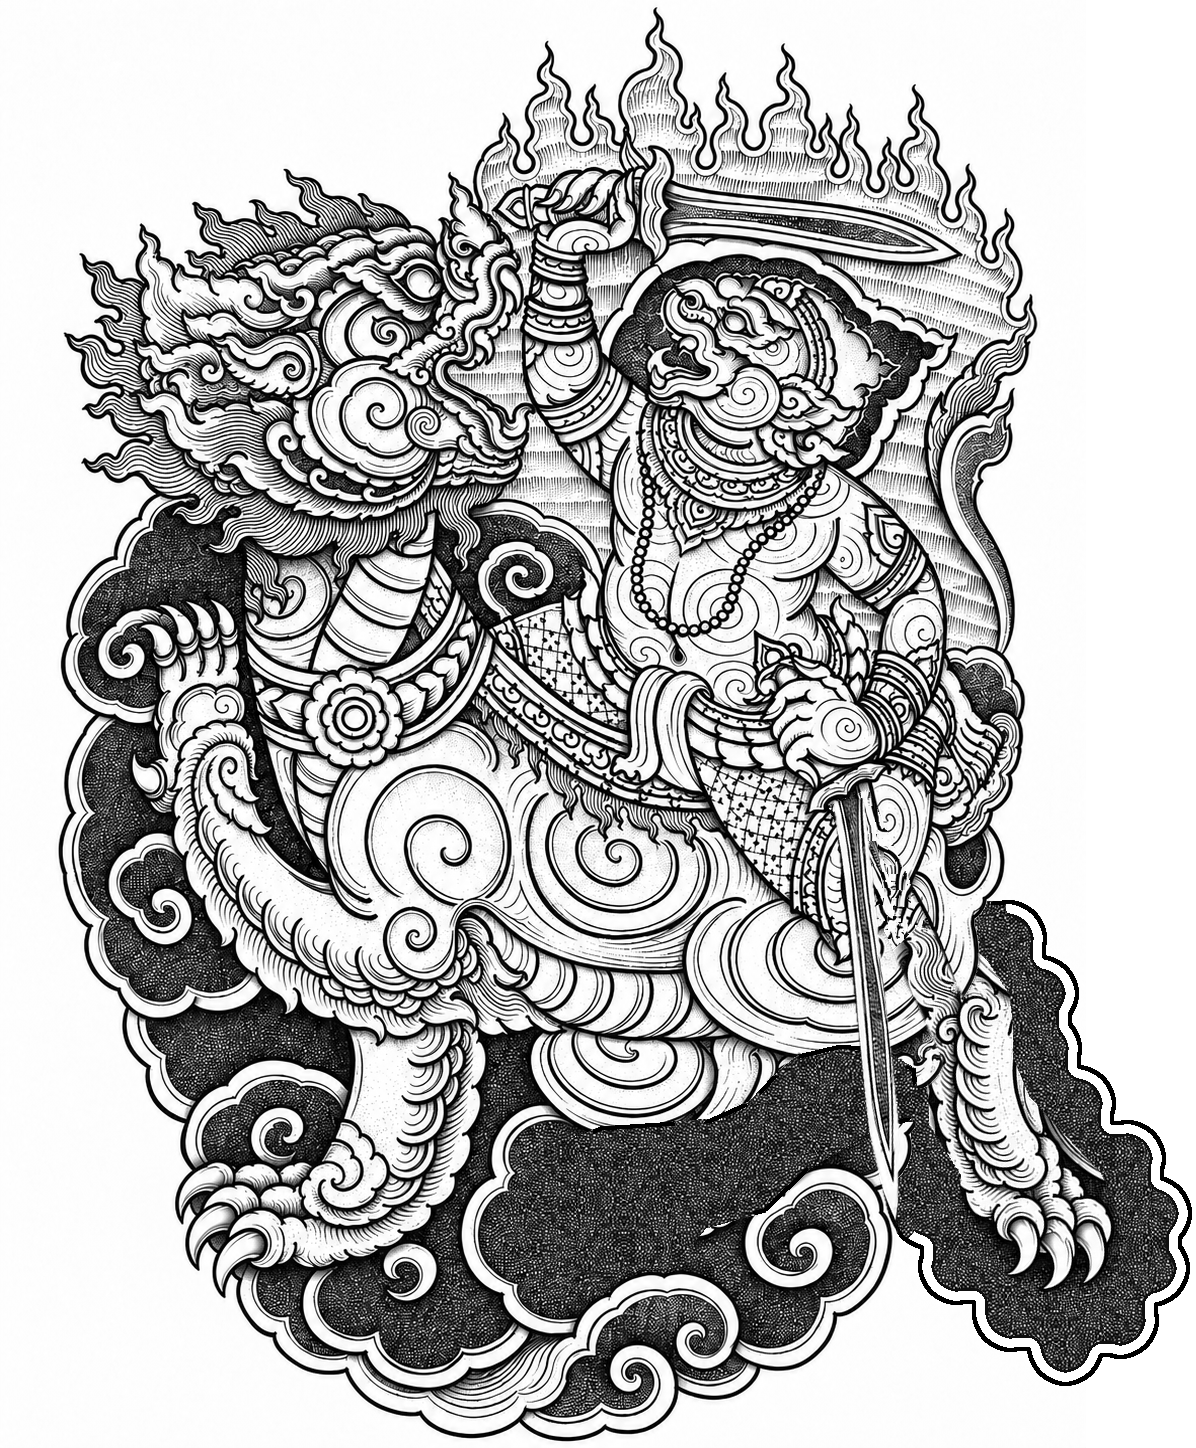
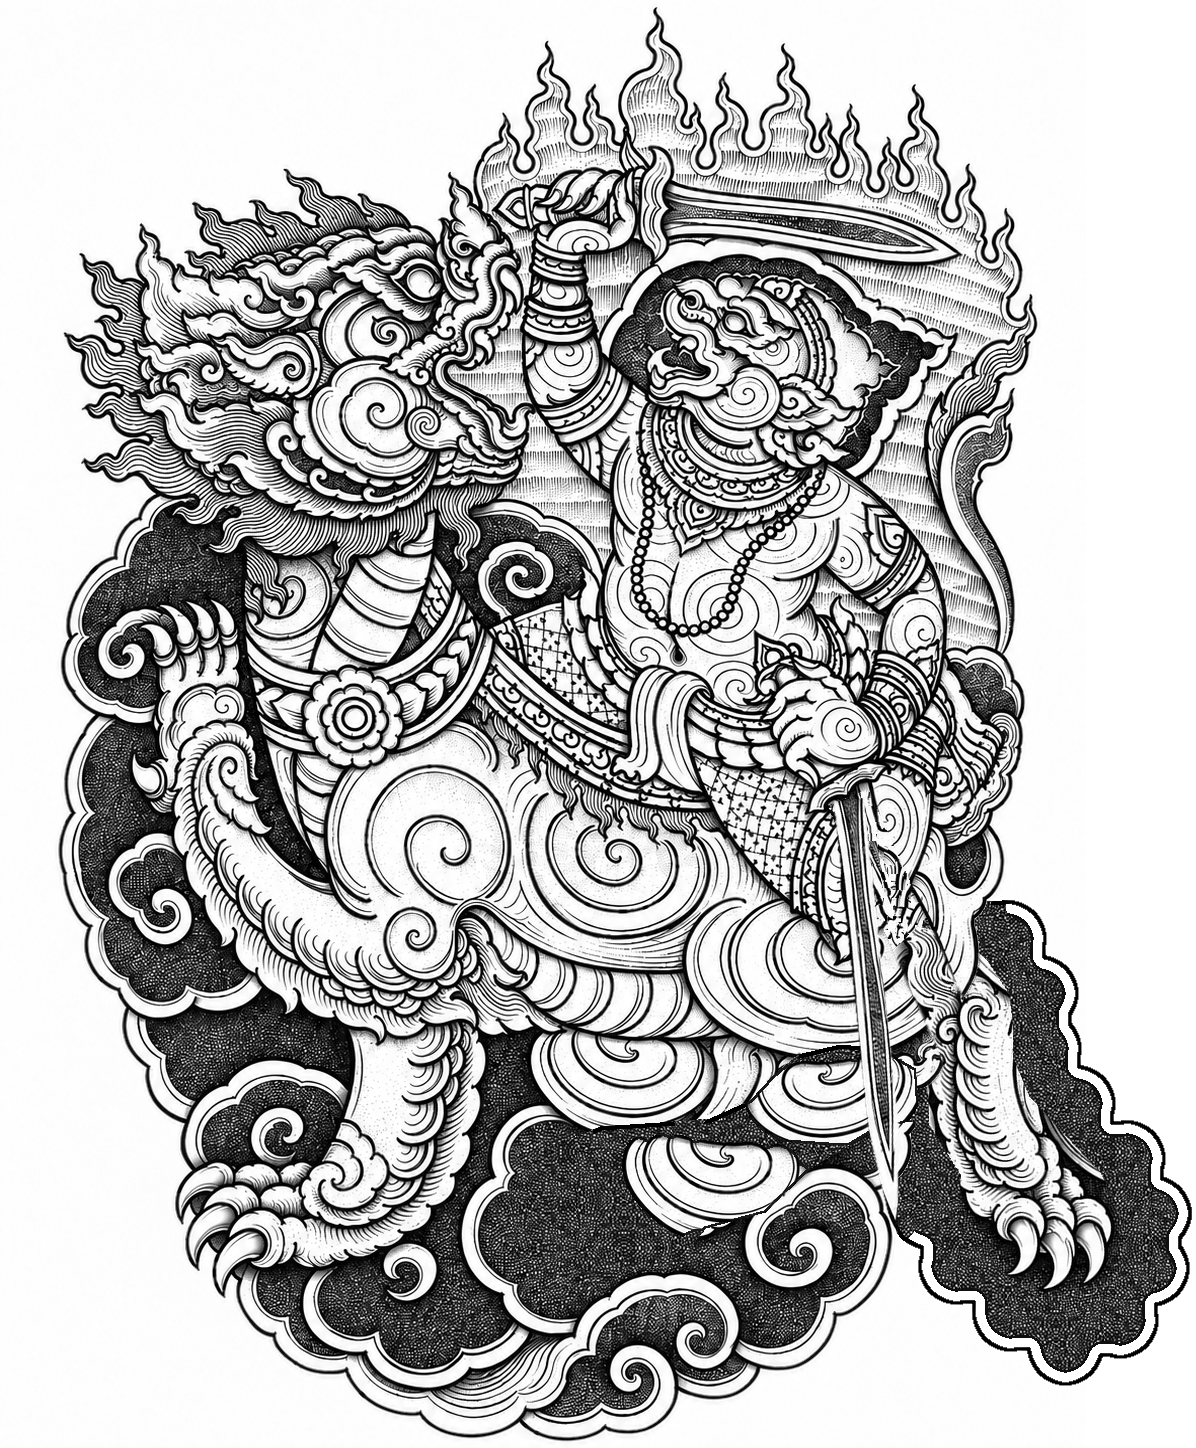
Improve tattoo mock-up: swirl clouds and lighter lines
Fill the space the old leg left under the sash with stacked swirl clouds
copied from the drawing, thin the heavy outlines on light areas, and
update the artist sheet notes and README to match.

Claude-Session: https://claude.ai/code/session_01CjPgYQGgLMmjyoYXY7oUaM

diff --git a/tattoo-review/README.md b/tattoo-review/README.md
@@ -9,11 +9,12 @@ This compares ChatGPT's flat line-art reconstruction with the five photos of the
 | [`mockup-layout.png`](mockup-layout.png) | The same mock-up without notes |
 
 ## About the mock-up
-The mock-up is a cut-and-paste edit of ChatGPT's drawing, not a new drawing. Two of the four problems are fixed in it:
+The mock-up is a cut-and-paste edit of ChatGPT's drawing, not a new drawing. Three of the four problems are fixed in it:
 - **Fixed:** the dagger is now long and nearly vertical.
 - **Fixed:** the back leg now comes out from behind Hanuman's hip to the right of the dagger, with black clouds behind it.
-- **Not fixed (the artist redraws these):** the dark patch at the bottom centre is a placeholder where the old leg used to be;
-  the real tattoo has open swirl clouds there. The heavy AI line style is also still there.
+- **Fixed:** the space the old leg left under the sash is now stacked swirl clouds, copied from elsewhere in the drawing.
+- **Partly fixed (the artist redraws this):** the heavy outlines are thinner, but the AI's double outlines and
+  engraving hatching are still there. The real tattoo uses thin single lines and lots of open skin.
 
 Use it to show the artist the placement. The photos of the real tattoo should guide the detail and the line style.
 
